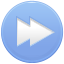
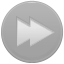
added some nice images for the video controls, implemented ipad layout for video page and fixed word wrapping issue in header with long video names

diff --git a/trunk/web-html5/src/main/webapp/resources/parleys/parleysIpad.css b/trunk/web-html5/src/main/webapp/resources/parleys/parleysIpad.css
@@ -91,6 +91,8 @@ div#logoBar {
     background: #a40202 url(#{utilBean.basePath}/resources/ipad/header_bg.jpg) repeat-x;
     border-bottom: 1px solid #000;
 
+    white-space:nowrap;
+    max-width: 100%;
     /* Turned shadows off, b/c they're not shown and cause a margin on the right
     box-shadow: 0px 2px 20px #000;
     -webkit-box-shadow: #000 0px 2px 20px;*/
@@ -101,7 +103,8 @@ div#logoBar ul {
 
 div#logoBar ul li {
     position: relative;
-    display: inline-block;
+    display: inline-table;
+    overflow-x: hidden;
     height: 75px;
     list-style: none;
 }
@@ -111,7 +114,7 @@ div#logoBar ul li a {
     padding: 20px;
     color: #fc0;
     font-weight: bold;
-    font-size: 18pt;
+    font-size: 14pt;
     text-shadow: 2px 2px 0 #000;
 }
 
@@ -302,4 +305,129 @@ div.pagingBar a.current.paging {
     background-color: #333;
 }
 div.pagingBar a.next.paging {
+}
+
+
+
+
+#mainContent {
+    border: 1px solid red;
+    background-color: #fcc;
+    position: absolute;
+    width: 100%;
+    height: 100%;
+    -webkit-perspective: 500;
+	/*-webkit-perspective: 400;*/
+	-webkit-transition-property: -webkit-transform;
+    -webkit-transition-duration: 0.5s;
+	-webkit-transition-timing-function: ease-in-out;
+	-webkit-transform: rotateY(0deg) translateZ(0px) translate(0,0);
+}
+
+#videoContainer {
+	position: absolute;
+	-webkit-transition: all 0.4s ease-in-out;
+	background-color: #000000;
+	-webkit-transform: rotateY(0deg) translateZ(0px) translate(0,0);
+	-webkit-transition-timing-function: ease-in-out;
+
+}
+
+#slidesContainer {
+	-webkit-transition: all 0.4s ease-in-out;
+	position: absolute;
+	background-color: #000000;
+}
+
+.slide {
+    width: 100%;
+    height: 100%;
+}
+
+#agenda {
+	-moz-border-radius: 10px;
+	-webkit-border-radius: 10px;
+	border: 5px solid #ffffff;
+	padding: 0px;
+	width: 380px;
+	bottom: 50px;
+    top: 0px;
+	background-color: #3b3b3b;
+	position: absolute;
+	-moz-box-shadow: 0 20px 40px #888;
+	-webkit-box-shadow: 0 10px 10px #888;
+	-webkit-transform: rotateY(0deg) translateZ(500px) translate(0,0);
+    -webkit-transition-property: -webkit-transform, opacity;
+    -webkit-transition-duration: 0.5s;
+	-webkit-transition-timing-function: ease-in-out;
+	opacity: 0;
+    overflow-y: scroll;
+}
+
+div#agenda li a {
+    -webkit-transition: all 0.3s ease-out;
+    color: #174867;
+    padding: 7px 15px 7px 15px;
+    -webkit-border-radius: 10px;
+    width: 250px;
+    display: block;
+    text-decoration: none;
+}
+
+div#agenda li {
+     -webkit-border-radius: 10px;
+    border: 1px solid black;
+    background: -webkit-gradient(linear, left top, left bottom, from(#4B4B4B), to(#343434));
+    margin-top: 5px;
+    height: 100%;
+}
+
+div#agenda li {
+    -webkit-transition: all 0.3s ease-out;
+}
+
+#chapters {
+    position: absolute;
+    left: 147px;
+    right: 0;
+    height: 30;
+    background-color: #8a2be2;
+}
+
+#chapters div {
+	background: -webkit-gradient(linear, left top, left bottom, from(#6b6b6b), to(#343434));
+	border: 1px black solid;
+	border-bottom: none;
+	border-top: none;
+	position: absolute;
+	width: 30px;
+	height: 100%;
+}
+
+#chapters div:hover {
+	background: -webkit-gradient(linear, left top, left bottom, from(#222222), to(#444444));
+}
+
+div#videoNavigationBarCursor {
+    border: none;
+    position: absolute;
+    left: -7px;
+    top: -5px;
+    width: 14px;
+    height: 34px;
+    display: block;
+    background: url(#{resource['img:progressbar_cursor.png']});
+    cursor: pointer;
+}
+
+div#videoNavigationBarCursor:hover {
+    border: none;
+    position: absolute;
+    left: -7px;
+    top: -5px;
+    width: 14px;
+    height: 34px;
+    display: block;
+    background: url(#{resource['img:progressbar_cursor.png']});
+    cursor: pointer;
 }

diff --git a/trunk/web-html5/src/main/webapp/resources/parleys/parleysIpadPortrait.css b/trunk/web-html5/src/main/webapp/resources/parleys/parleysIpadPortrait.css
@@ -74,3 +74,7 @@ div#upperPhotoContainer .featuredPhotoinfo h3 {
     font-style: italic;
     font-weight: normal;
 }
+
+div#mainContent {
+    height: 600px;
+}

diff --git a/trunk/web-html5/src/main/webapp/resources/parleys/parleysIpadLandscape.css b/trunk/web-html5/src/main/webapp/resources/parleys/parleysIpadLandscape.css
@@ -20,3 +20,7 @@ div#upperPhotoContainer {
 div#lowerThumbnailsContainer {
     width: 950px;
 }
+
+div#mainContent {
+    height: 480px;
+}
